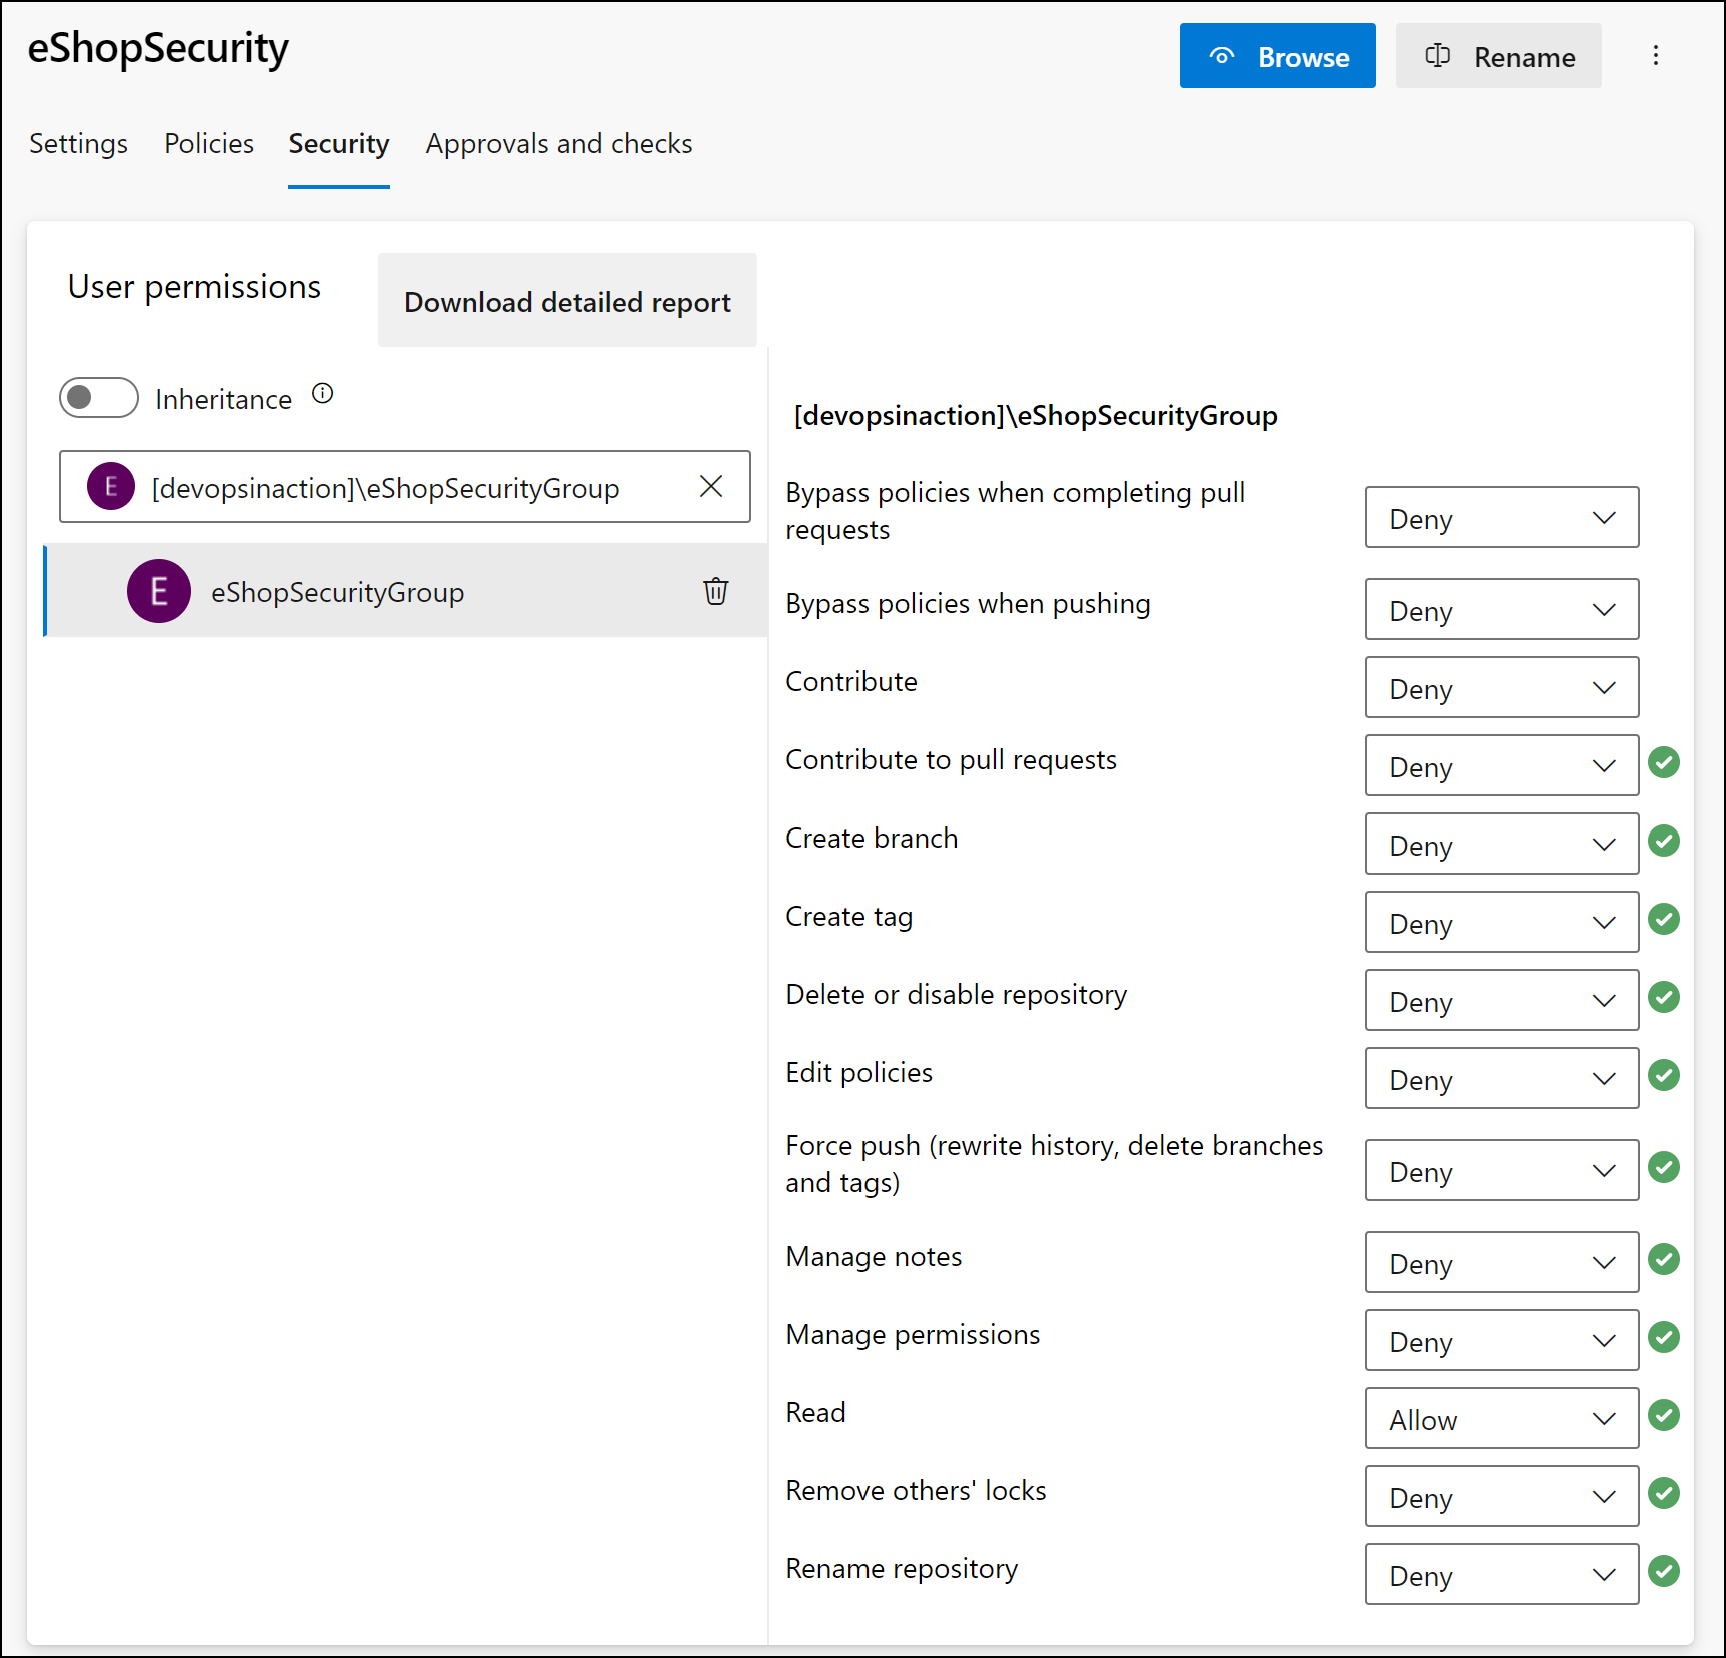
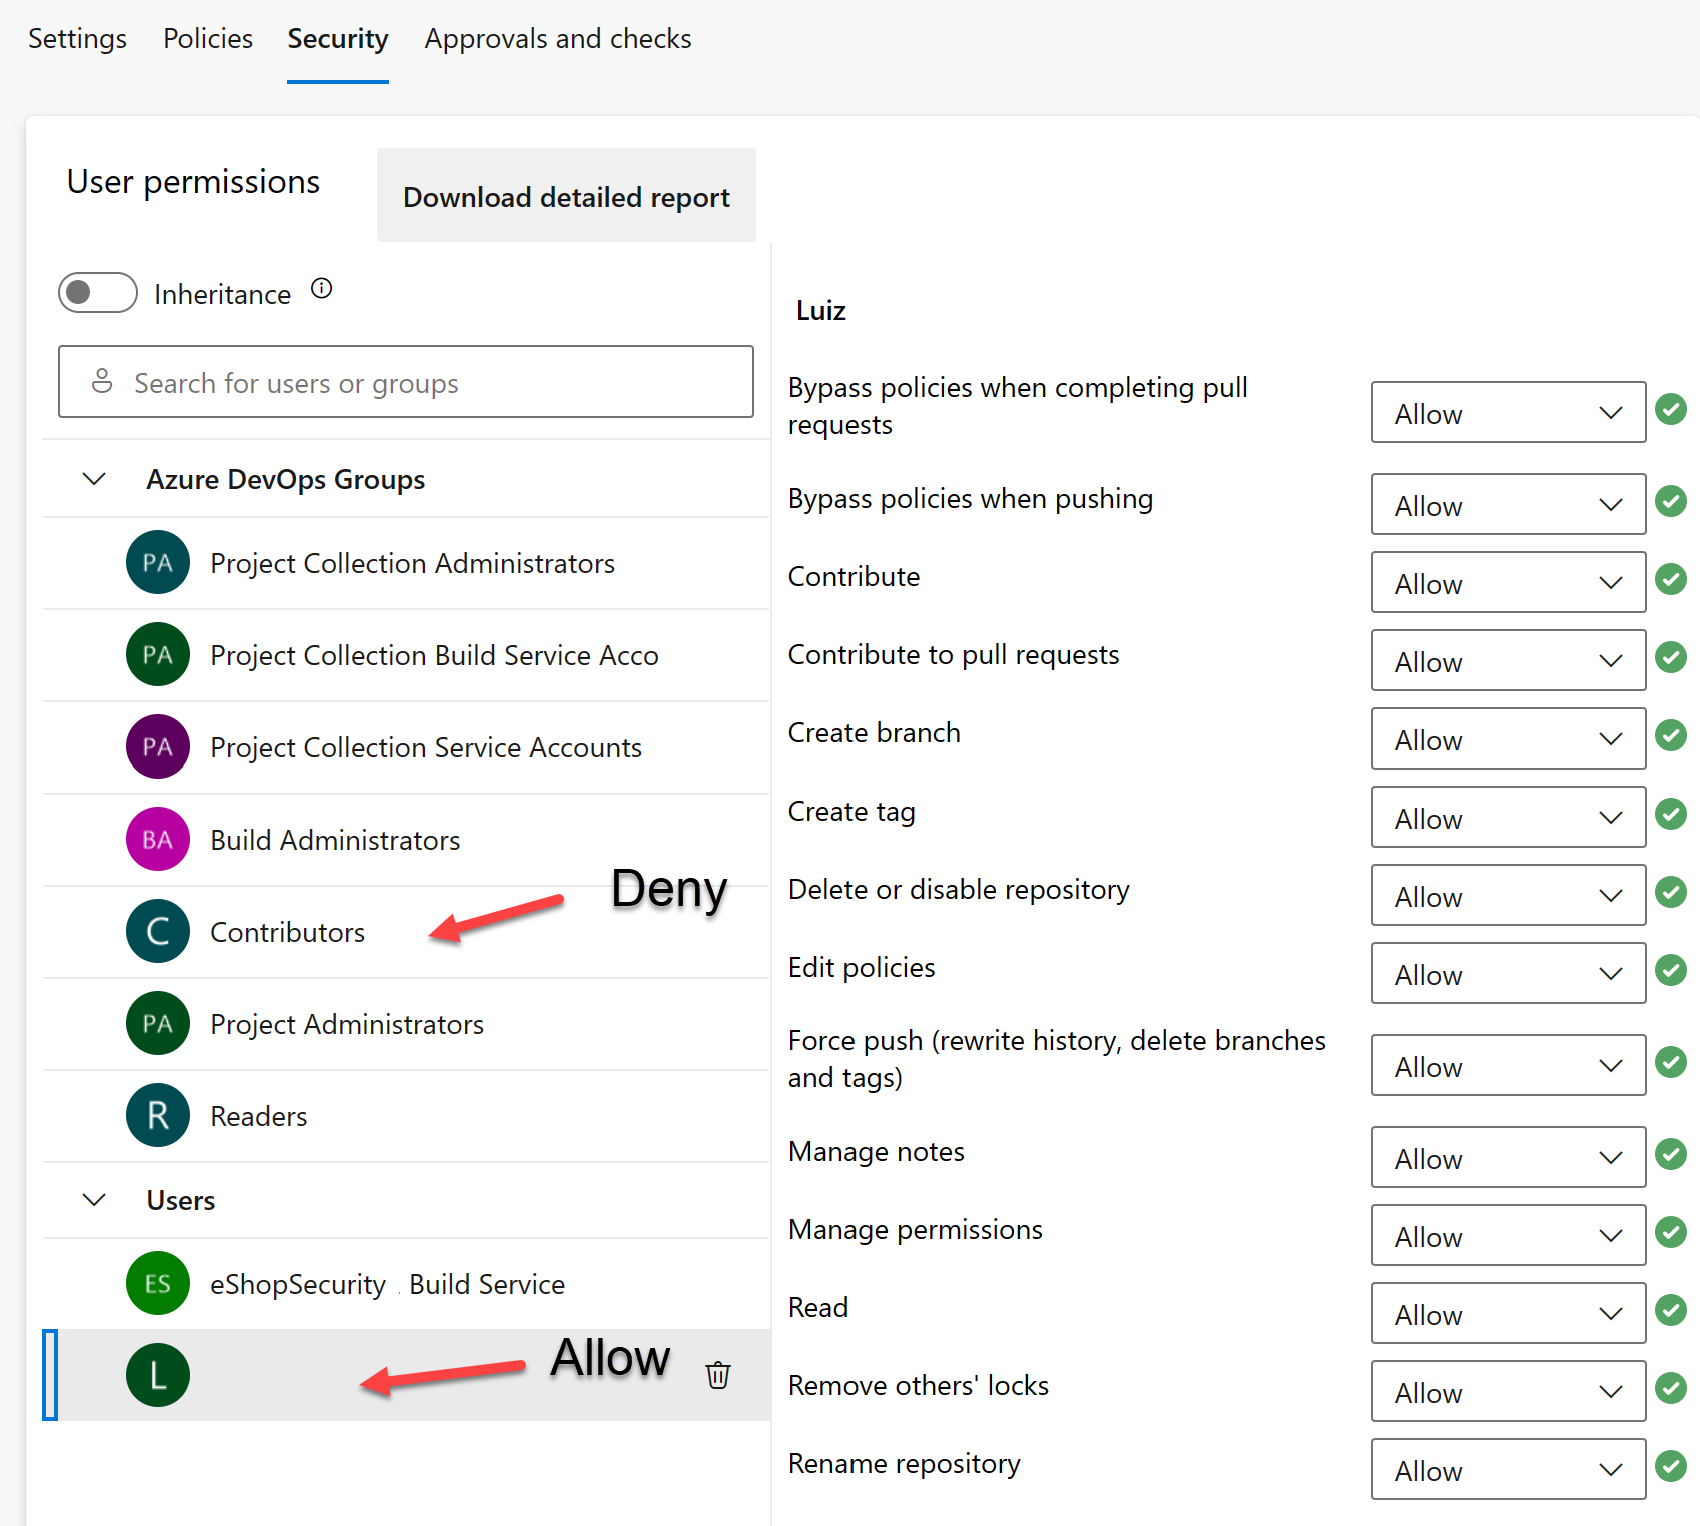
Updating lab 1 to specify group

diff --git a/Instructions/Labs/APL2001_M01_L01_Configure_a_Project_and_Repository_Structure_to_Support_Secure_Pipelines.md b/Instructions/Labs/APL2001_M01_L01_Configure_a_Project_and_Repository_Structure_to_Support_Secure_Pipelines.md
@@ -46,15 +46,19 @@ You can manage permissions and settings for each project separately by going to 
 2. Open the Repos menu and click on the **Initialize** button to initialize the new repository by adding the README.md file.
 3. Open the Project settings menu and select repositories under the Repos section.
 4. Select the new **eShopSecurity** repository and click on the **Security** tab.
-5. Remove the **Inheritance** permission, and deny access to user and groups that should not have access to the repository.
-6. Add only a specific group of users, or user that you want to grant access to the repository and run pipelines from the eShopOnWeb project.
-7. Click on the search box, enter the name of the group, select it, and then set the permissions you want to allow or deny for the group or user.
-8. Deny all permissions for the added user or group, and allow only Read permission.
+5. Remove the Inherit permissions from parent by unchecking the **Inheritance** toggle button.
+6. Select the **Contributors** group and click on the **Deny** button to deny all permissions.
+7. Select your user under Users and click on the **Allow** button to allow all permissions.
 
     ![Screenshot of the repository security settings with allow for read and deny for all other permissions.](media/repository-security.png)
 
-> [!NOTE]
-> Ensure that you have the same group in your eShopOnWeb project. This will allow you to run pipelines from the eShopOnWeb project and access the repository in the eShopSecurity project.
+8. (Optional) Add specific group of users, or user that you want to grant access to the repository and run pipelines from the eShopOnWeb project. Click on the search box, enter the name of the group, select it, and then set the permissions you want to allow or deny for the group or user.
+
+    > [!NOTE]
+    > Ensure that you have the same group in your eShopOnWeb project. This will allow you to run pipelines from the eShopOnWeb project and access the repository in the eShopSecurity project.
+9. Your changes will be saved automatically.
+
+Now only the user you assigned permissions and the administrators can access the repository. This is useful when you want to allow specific users to access the repository and run pipelines from the eShopOnWeb project.
 
 ### Exercise 2: Configure a pipeline and template structure to support secure pipelines
 
